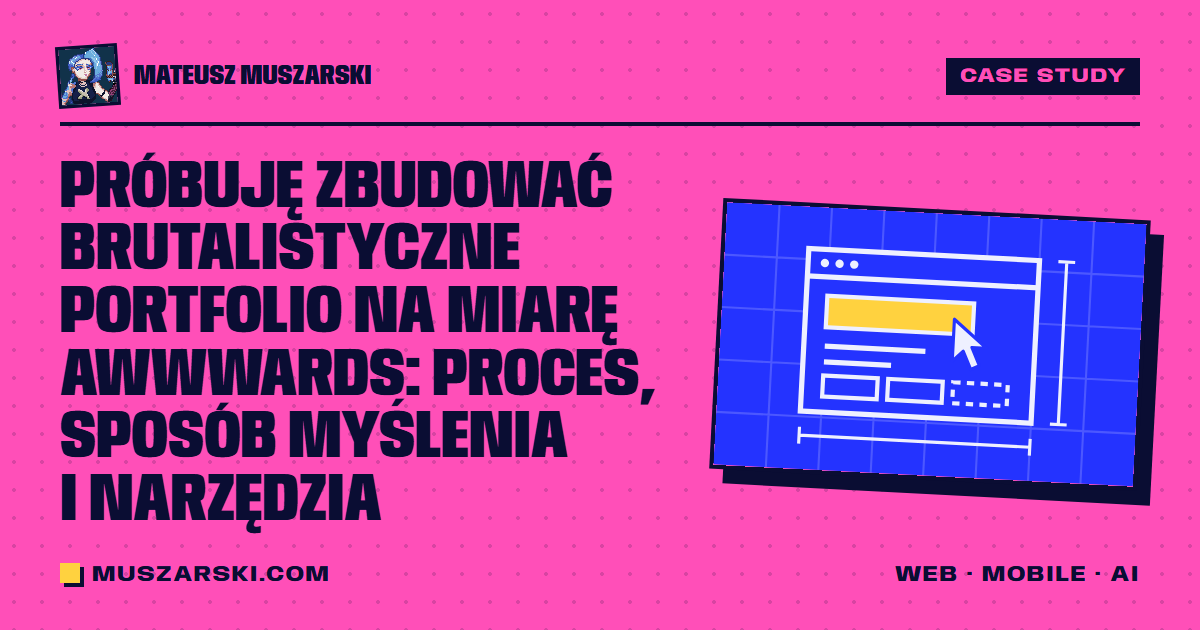
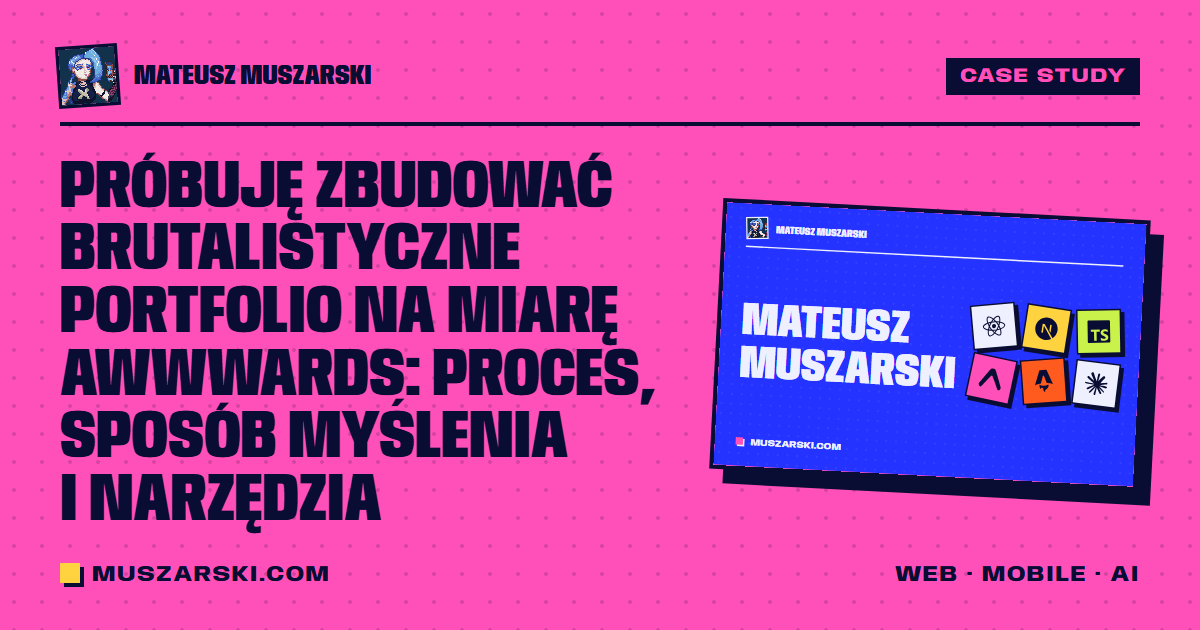
feat(blog): case-study covers draw the site they are about
The case study gets a `this-site` cover, the home share card as on
/work/. A `yws` cover (the yws.lu hero, with an own drawing of the
house) waits for the yws.lu case study. Gradient and pattern ids are
page-unique; og.mjs inlines the cover's /favicon.svg. The copied
yws.lu capture in .case-study/ is gitignored.

Changed region(s): [[0.6167, 0.3317, 0.9558, 0.7238]]

diff --git a/apps/web/src/lib/blog.ts b/apps/web/src/lib/blog.ts
@@ -17,8 +17,13 @@ export const BLOG_TAGS = [
 ] as const;
 export type BlogTag = (typeof BLOG_TAGS)[number];
 
-/** Code-drawn covers (PostCover.astro), one motif per topic. */
+/**
+ * Code-drawn covers (PostCover.astro), one motif per topic. A case study's cover draws the site it is about
+ * [user 2026-10-09: "make the thumbnails for case studies be more like the websites"]: `this-site`, `yws`.
+ */
 export const BLOG_COVERS = [
+  "this-site",
+  "yws",
   "blueprint",
   "terminal",
   "wiki",
@@ -38,6 +43,10 @@ export const BLOG_COVERS = [
   "anchor",
 ] as const;
 export type BlogCover = (typeof BLOG_COVERS)[number];
+
+let coverSerial = 0;
+/** A page-unique id prefix for a cover's gradients and patterns (one page can show the same cover twice). */
+export const coverId = (cover: BlogCover): string => `cv-${cover}-${++coverSerial}`;
 
 /** Words per minute for technical prose on a screen (code and tables read slower; this is conservative). */
 const WORDS_PER_MINUTE = 220;

diff --git a/.claude/project-info/log.md b/.claude/project-info/log.md
@@ -88,3 +88,4 @@
 ## [2026-10-09] footer | Icons for the Google Play and App Store links [user: "would be nice if you had icons"]: both brands allow their icon only inside their badges (Google: lockup only, monochrome on approval; Apple: badge artwork only), so neutral Tabler filled glyphs (`player-play`, `apps`). `assets.md` § CV marks updated.
 ## [2026-10-09] work | The hover titles take the My life crosshair [user: "maybe cursor can be the same as on my life poke the goo when i hover over the text"]: `.ht-hover { cursor: crosshair }` in `HoverType`; `design.md` updated.
 ## [2026-10-09] rights | yws.lu cleared to show [user 2026-10-09: "mark it as ok"]: `rights: "ok"` in `data/projects.ts`, so the launch build keeps its /work/ card, its "Also shipped" ticket and the CV link; P10 and Q49 updated, `content/projects.md` row. Its revamp case study is next (source handover still on the laptop).
+## [2026-10-09] blog | Case-study covers draw their site [user 2026-10-09: "make the thumbnails for case studies be more like the websites"]: new `this-site` cover (the home share card as on /work/: logo + name, the name big, six tool tiles, the domain) on the case study en + pl, and a `yws` cover (the yws.lu hero: aurora glow, headline bars with the violet line shadow, an own toon house) for the coming yws.lu case study. Gradient and pattern ids from `coverId()`; `og.mjs` inlines the cover's `/favicon.svg`. `.case-study/` (the yws.lu capture copied in) is gitignored. content-model.md § Blog post.

diff --git a/.claude/project-info/content/content-model.md b/.claude/project-info/content/content-model.md
@@ -102,6 +102,10 @@ quality articles so either case studies or blog articles similar to how we appro
 
 `{ title, description (≤ 155 chars), slug (per locale), translationKey, published, updated?, tags[],
 cover (code-drawn or real), coverAlt, author: "mateusz", draft, canonical? }`.
+- Covers (`PostCover.astro`): one code-drawn motif per topic, no words; a case study's cover draws the site it is
+  about [user 2026-10-09: "make the thumbnails for case studies be more like the websites"]: `this-site` = the home
+  share card as on /work/ (names only, logo from `/favicon.svg`), `yws` = the yws.lu hero (headline as bars, an own
+  house, not the credited Sketchfab model). No nested `<svg>` in a cover: `scripts/og.mjs` cuts at the first `</svg>`.
 - `translationKey` links translations for hreflang. A post that exists in one locale has no
   alternates.
 - The author is the single Person entity (`seo.md`).
